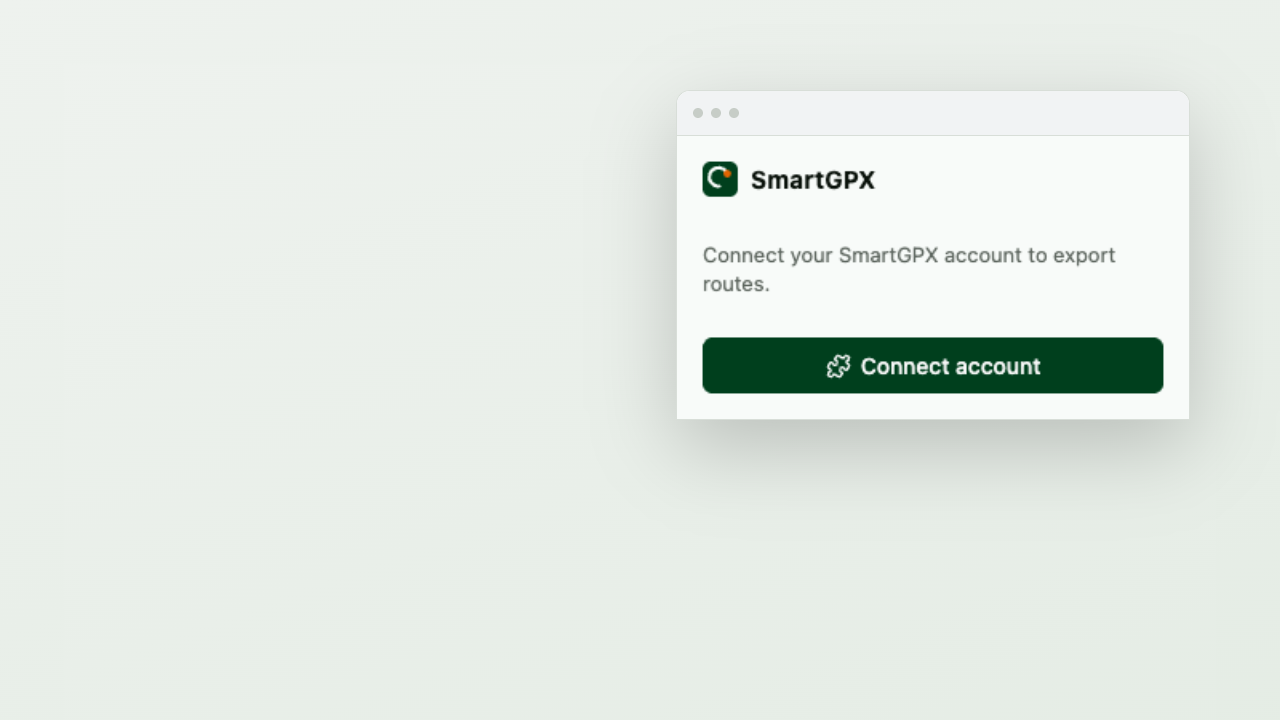
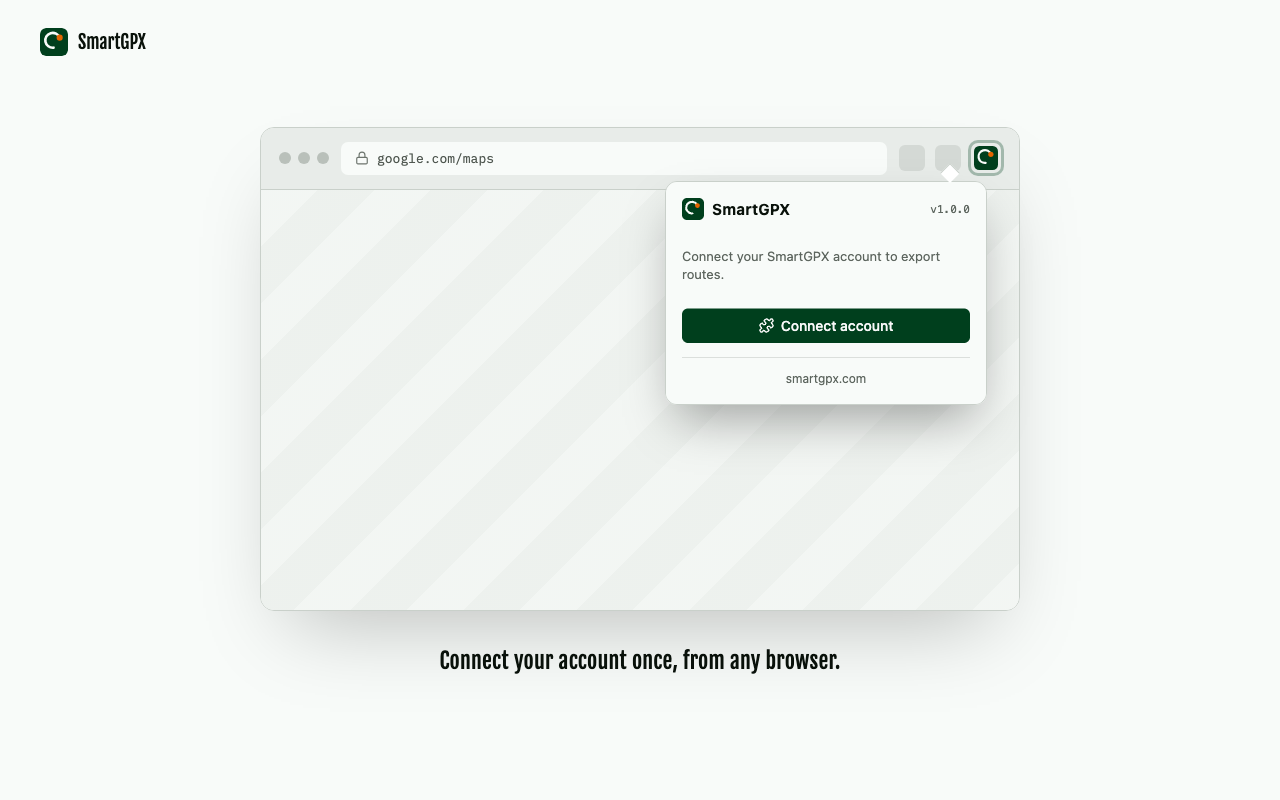
Corrige les dimensions des captures d'écran Chrome Web Store
Les 4 captures existantes étaient rejetées par le formulaire
d'upload : 1280x720/1280x700 au lieu de 1280x800, et un canal alpha
présent. Régénérées à la taille exacte (1280x800, 24 bits, sans
alpha, vérifié via sips) :

- Les 3 captures du popup reprennent le même cadre "navigateur" que
  la maquette de la page d'accueil (barre d'adresse + icône épinglée
  + pointe), avec le popup réel capturé sur l'extension buildée
  (chrome.tabs.query/sendMessage mockés, pas de backend nécessaire).
- La capture 4 (/account/extensions) montre maintenant un vrai
  navigateur connecté plutôt que l'état vide "aucune extension
  connectée".

diff --git a/chrome-extension/STORE_LISTING.md b/chrome-extension/STORE_LISTING.md
@@ -210,13 +210,27 @@ submission — Chrome Web Store validates it.
 
 ## Screenshots
 
-**Done.** Four real screenshots in `store-assets/`, composed onto a 1280×800 canvas framed like a
-Chrome toolbar dropdown (a raw 320px-wide popup image alone reads too small/bare for a store
-listing): `screenshot-1-popup-disconnected.png`, `screenshot-2-popup-route-detected.png`,
-`screenshot-3-popup-export-success.png` (all captured against the real built extension loaded
-unpacked, with `chrome.tabs.query`/`chrome.runtime.sendMessage` mocked so no live backend or
-account was needed — see `documentation/technique/chrome-extension.md` for how), and
-`screenshot-4-account-extensions.png` (`/account/extensions`, a real logged-in page, no mocking).
+**Done**, all four at the exact required dimensions (**1280×800, 24-bit, no alpha channel** — the
+first attempt at these was rejected by the upload form for being off-size at 1280×720/1280×700 and
+carrying an alpha channel; regenerated with the exact pixel dimensions enforced and
+`hasAlpha: no` verified via `sips` before finalizing). In `store-assets/`:
+
+- `screenshot-1-popup-disconnected.png`, `screenshot-2-popup-route-detected.png`,
+  `screenshot-3-popup-export-success.png` — each a real popup screenshot (captured against the
+  actual built extension loaded unpacked, `chrome.tabs.query`/`chrome.runtime.sendMessage` mocked
+  so no live backend or account was needed for these three) composited onto a 1280×800 canvas
+  framed like a real Chrome toolbar dropdown, using the exact same browser-chrome mockup pattern
+  as the homepage's extension preview card (address bar + a highlighted extension icon + a
+  speech-bubble pointer connecting it to the popup) — a raw 320px-wide popup image alone reads
+  too small/bare for a store listing. Each has a short caption naming what that state
+  demonstrates.
+- `screenshot-4-account-extensions.png` — `/account/extensions`, a real logged-in page against a
+  real local account and a real `ExtensionAuthorization` row, no mocking, showing what a connected
+  browser actually looks like in account management (device label, connected date, revoke link)
+  rather than the empty "no browser connected yet" state.
+
+See `documentation/technique/chrome-extension.md` for the general approach to driving the real
+extension via Playwright (`chromium.launchPersistentContext` + `--load-extension`).
 
 ## Icons
 
